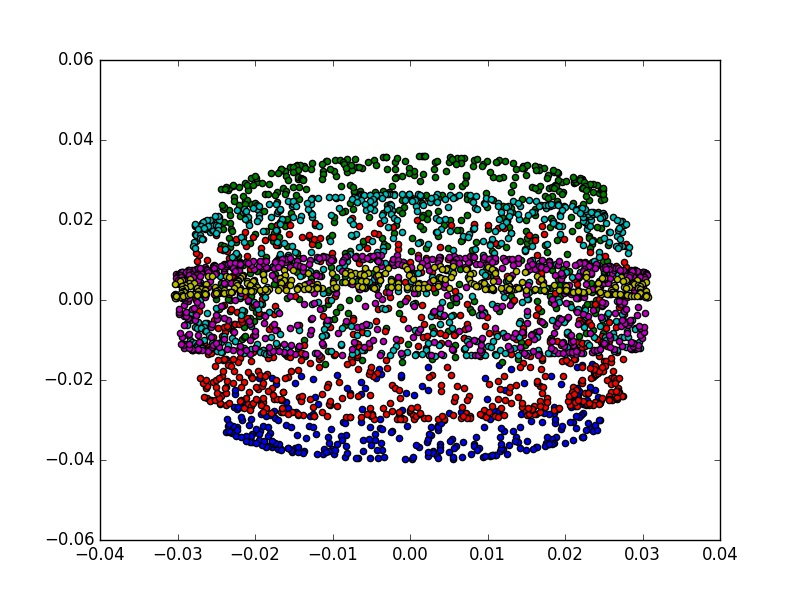
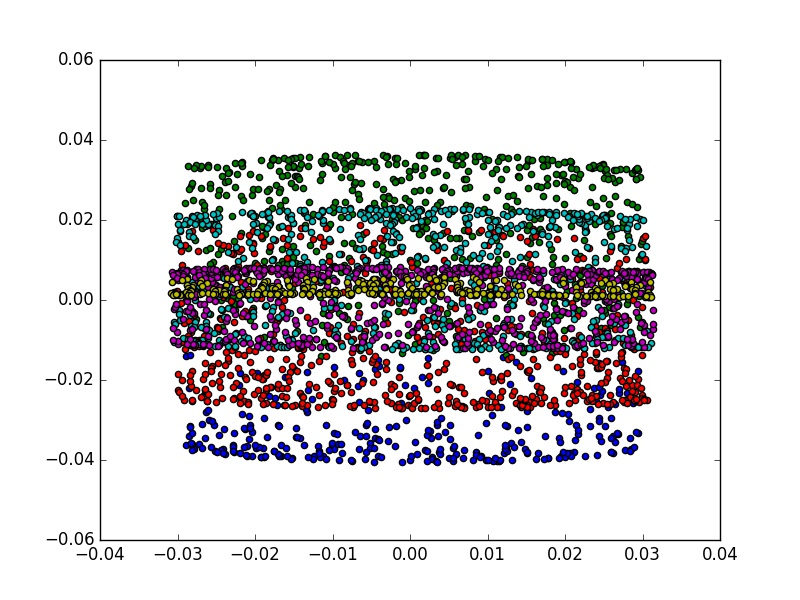
ライブラリーを用いたプログラムの追加

Changed region(s): [[0.1875, 0.24, 0.8438, 0.78]]

diff --git a/self_made_kca.py b/self_made_kca.py
@@ -6,12 +6,14 @@ from sklearn.decomposition import PCA
 import pandas as pd
 
 def kernel_gause(x_i,x_j):
-    beta=0.5
+    beta=0.1
     x_norm=np.linalg.norm(x_j-x_i)
-    return np.exp(x_norm*(-beta))
+    return np.exp(-(x_norm**2)*beta)
 
 #data=np.loadtxt("example_elipsoid_data.csv",delimiter=",")
 data=np.loadtxt("example_swithroll_data.csv",delimiter=",")
+#data=np.loadtxt("example_2circles.csv",delimiter=",")
+
 
 '''
 split_n=[i*0.1 for i in range(1,10,2)]
@@ -25,18 +27,8 @@ ax.scatter(result_2[:,0],result_2[:,1],result_2[:,2],c=color_box[1])
 ax.scatter(result_3[:,0],result_3[:,1],result_3[:,2],c=color_box[2])
 ax.scatter(result_4[:,0],result_4[:,1],result_4[:,2],c=color_box[3])
 ax.scatter(result_5[:,0],result_5[:,1],result_5[:,2],c=color_box[4])
-ax.scatter(result_6[:,0],result_6[:,1],result_6[:,2],c=color_box[5])
-plt.show()
+ax.scatter(r
 '''
-
-#3次元空間にプロット
-'''
-fig = plt.figure()
-ax = Axes3D(fig)
-ax.scatter(circle_x,circle_y,hight)
-plt.show()
-'''
-
 
 #カ-ネル行列の生成
 kernel_matrix=[]
@@ -44,38 +36,29 @@ ones_matrix=[]
 data=np.array(data)
 for i in range(data.shape[0]):
     a=[]
-    ones_row=[]
     for j in range(data.shape[0]):
         result_gause=kernel_gause(data[i,:],data[j,:])
         a.append(result_gause)
-        ones_row.append(1)
     kernel_matrix.append(a)
-    ones_matrix.append(ones_row)
 
 kernel_matrix=np.array(kernel_matrix)
-ones_matrix=np.array(ones_matrix)
-n_reverse=1/kernel_matrix.shape[0]
-ones_matrix=n_reverse*ones_matrix
-print(kernel_matrix.shape)
+N=kernel_matrix.shape[0]
+print(N)
+ones_matrix=np.ones((N,N))/N
+print(ones_matrix)
 
-i_n=np.identity(kernel_matrix.shape[0])
+i_n=np.identity(N)
 j_n=i_n - ones_matrix
 
 #KCAにおける固有値計算
 value_solve=np.dot(j_n,kernel_matrix)
+#value_solve= kernel_matrix - ones_matrix * kernel_matrix - kernel_matrix* ones_matrix + ones_matrix * kernel_matrix * ones_matrix
 lamda,v=np.linalg.eig(value_solve)
 
 #固有値をソート
 ind=np.argsort(lamda)
 x1=ind[-1]
 x2=ind[-2]
-
-#計算した結果におけるx1が最大値をもつデータを探す
-max_x1=0
-for serch in range(data.shape[0]):
-    if v[serch][x1]>v[max_x1][x1]:
-        max_x1=serch
-print(data[max_x1,:])
 
 #描写
 split_n=[i*0.1 for i in range(1,10,2)]
@@ -90,7 +73,8 @@ plt.scatter(result_3[:,x1],result_3[:,x2],c=color_box[2])
 plt.scatter(result_4[:,x1],result_4[:,x2],c=color_box[3])
 plt.scatter(result_5[:,x1],result_5[:,x2],c=color_box[4])
 plt.scatter(result_6[:,x1],result_6[:,x2],c=color_box[5])
-#plt.show()
+plt.show()
 #save_name='kca_plot_beta_1.0.jpg'
-save_name='kca_plot_swithroll_0.5.jpg'
-plt.savefig(save_name)
+#save_name='kca_plot_swithroll_0..jpg'
+#save_name='kca_plot_2circles.jpg'
+#plt.savefig(save_name)

diff --git a/kernel_libraly.py b/kernel_libraly.py
@@ -1,0 +1,25 @@
+import numpy as np
+import matplotlib.pyplot as plt
+
+from sklearn.decomposition import KernelPCA
+
+#data=np.loadtxt("example_elipsoid_data.csv",delimiter=",")
+data=np.loadtxt("example_swithroll_data.csv",delimiter=",")
+#data=np.loadtxt("example_2circles.csv",delimiter=",")
+
+kpca=KernelPCA(kernel="rbf")
+x_kpca=kpca.fit_transform(data)
+
+split_n=[i*0.1 for i in range(1,10,2)]
+indices=[int(x_kpca.shape[0]*n) for n in split_n]
+result_1,result_2,result_3,result_4,result_5,result_6=np.split(x_kpca, indices)
+
+#plt.scatter(v[:,x1],v[:,x2])
+color_box=['b','g','r','c','m','y','k']
+plt.scatter(result_1[:,0],result_1[:,1],c=color_box[0])
+plt.scatter(result_2[:,0],result_2[:,1],c=color_box[1])
+plt.scatter(result_3[:,0],result_3[:,1],c=color_box[2])
+plt.scatter(result_4[:,0],result_4[:,1],c=color_box[3])
+plt.scatter(result_5[:,0],result_5[:,1],c=color_box[4])
+plt.scatter(result_6[:,0],result_6[:,1],c=color_box[5])
+plt.show()

diff --git a/create_data_circl.py b/create_data_circl.py
@@ -1,0 +1,23 @@
+import numpy as np
+import matplotlib.pyplot as plt
+
+def circle_create(a,b):
+    x=a*np.cos(2*np.pi*b)
+    y=a*np.sin(2*np.pi*b)
+    return x,y
+
+setup=[0.01*i for i in range(0,100,1)]
+out_put=[]
+for i in setup:
+    x,y=circle_create(1.0,i)
+    box=[x,y]
+    out_put.append(box)
+for i in setup:
+    x,y=circle_create(3.0,i)
+    box=[x,y]
+    out_put.append(box)
+
+out_put=np.array(out_put)
+plt.scatter(out_put[:,0],out_put[:,1])
+plt.show()
+np.savetxt("example_2circles.csv",out_put,delimiter=",")

diff --git a/pca.py b/pca.py
@@ -41,4 +41,6 @@ plt.scatter(result_3[:,0],result_3[:,1],c=color_box[2])
 plt.scatter(result_4[:,0],result_4[:,1],c=color_box[3])
 plt.scatter(result_5[:,0],result_5[:,1],c=color_box[4])
 plt.scatter(result_6[:,0],result_6[:,1],c=color_box[5])
-plt.show()
+#plt.show()
+save_name="pca.png"
+plt.savefig(save_name)
